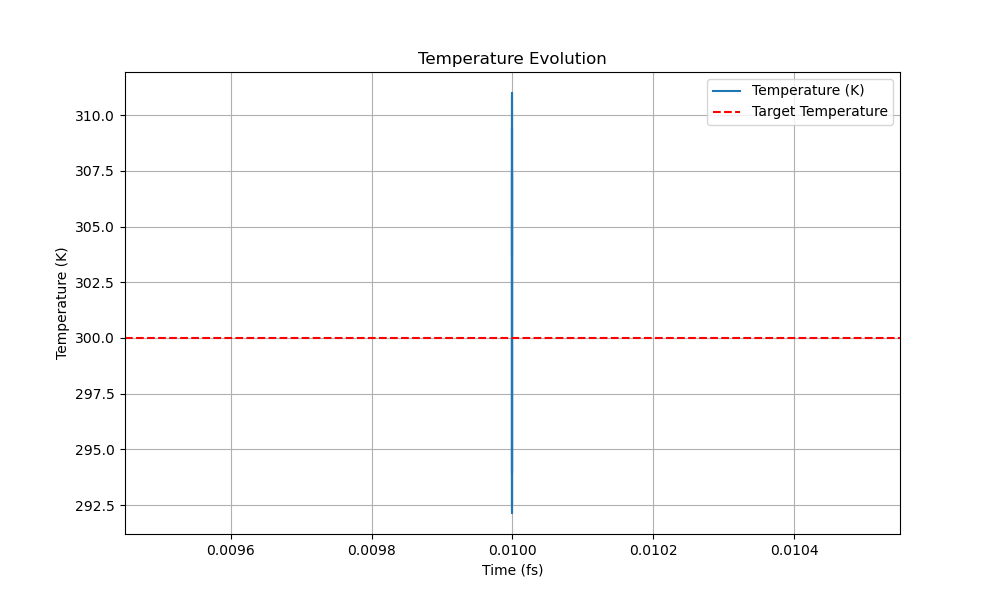
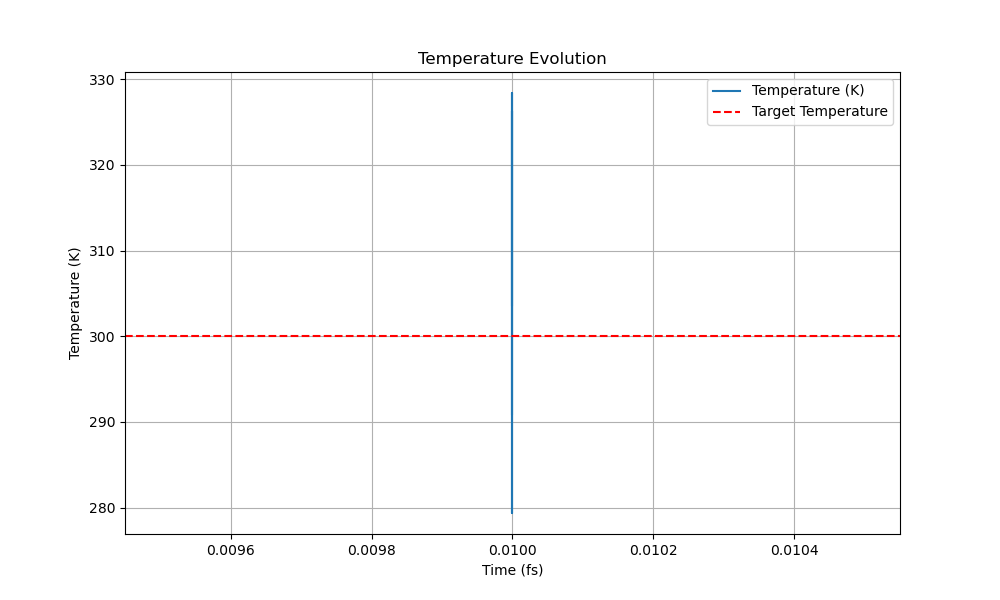
终稿

diff --git a/tests/eam_npt_nose_prh.py b/tests/eam_npt_nose_prh.py
@@ -90,7 +90,7 @@ def create_aluminum_fcc(a=4.05):
         )
 
     cell = Cell(lattice_vectors, atoms)
-    return cell.build_supercell((4, 4, 4))
+    return cell.build_supercell((3, 3, 3))
 
 
 def initialize_velocities(cell: Cell, target_temp: float) -> None:
@@ -442,8 +442,8 @@ def plot_npt_results(
 if __name__ == "__main__":
     history, final_cell = run_npt_simulation(
         target_temp=300.0,  # 300K
-        target_pressure=0.02,  # 3GPa
-        n_steps=20,  # 增加模拟步数以获得更有意义的数据
+        target_pressure=0.03,  # 0.03*160GPa
+        n_steps=10,  # 增加模拟步数以获得更有意义的数据
         dt=0.01,  # 0.01 fs 时间步长
         record_every=1,  # 每5步记录一次
     )

diff --git a/setup.py b/setup.py
@@ -4,7 +4,7 @@ from setuptools import setup, find_packages
 
 setup(
     name="ThermoElasticSim",
-    version="2.6",
+    version="3.0",
     packages=find_packages(where="src"),
     package_dir={"": "src"},
     install_requires=[
